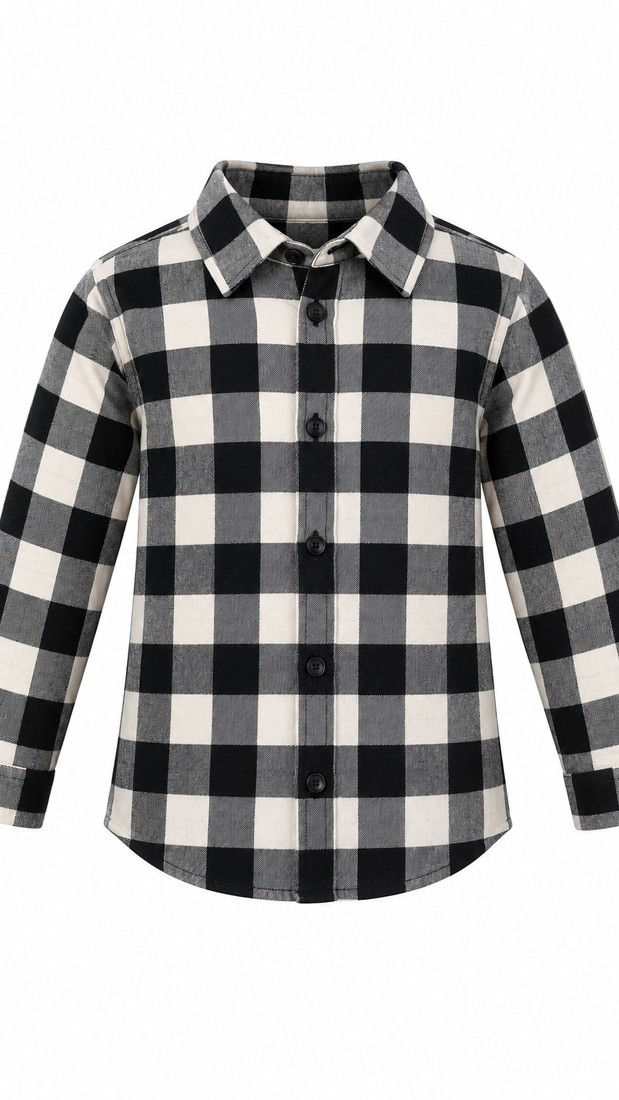
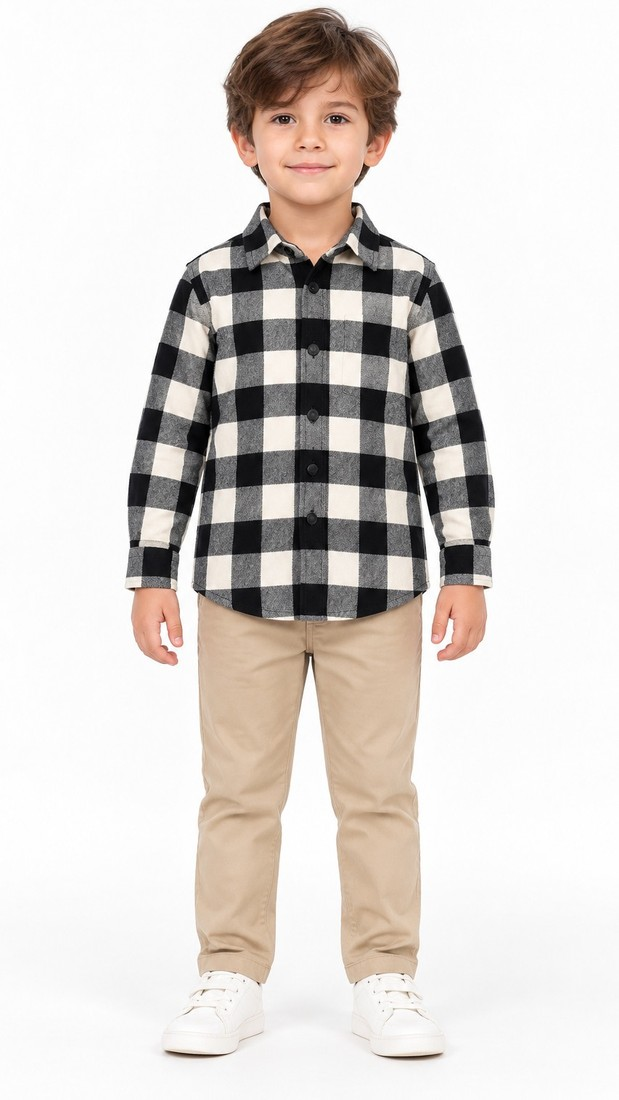
Обновление каталога 05.10.2026 00:34

diff --git a/docs/products.js b/docs/products.js
@@ -1164,8 +1164,11 @@ window.PRODUCTS = [
   "price": 3500,
   "old_price": null,
   "photos": [
-   "photos/SH-46-1.jpg?v=7ade9320",
-   "photos/SH-46-2.jpg?v=37599a04"
+   "photos/SH-46-1.jpg?v=7fd0c12c",
+   "photos/SH-46-2.jpg?v=7ade9320",
+   "photos/SH-46-3.jpg?v=37599a04",
+   "photos/SH-46-4.jpg?v=d0a7f228",
+   "photos/SH-46-5.jpg?v=6549a386"
   ],
   "note": "Размер без бирки, на вид",
   "variants": [

diff --git a/docs/index.html b/docs/index.html
@@ -270,7 +270,7 @@
   // Telegram-ник менеджера, без @. Заменить перед публикацией.
   const MANAGER = "Daniil_Artemyev";
 </script>
-<script src="products.js?v=e0ca3d98"></script>
+<script src="products.js?v=86896e19"></script>
 <script>
 (function () {
   const items = window.PRODUCTS || [];
